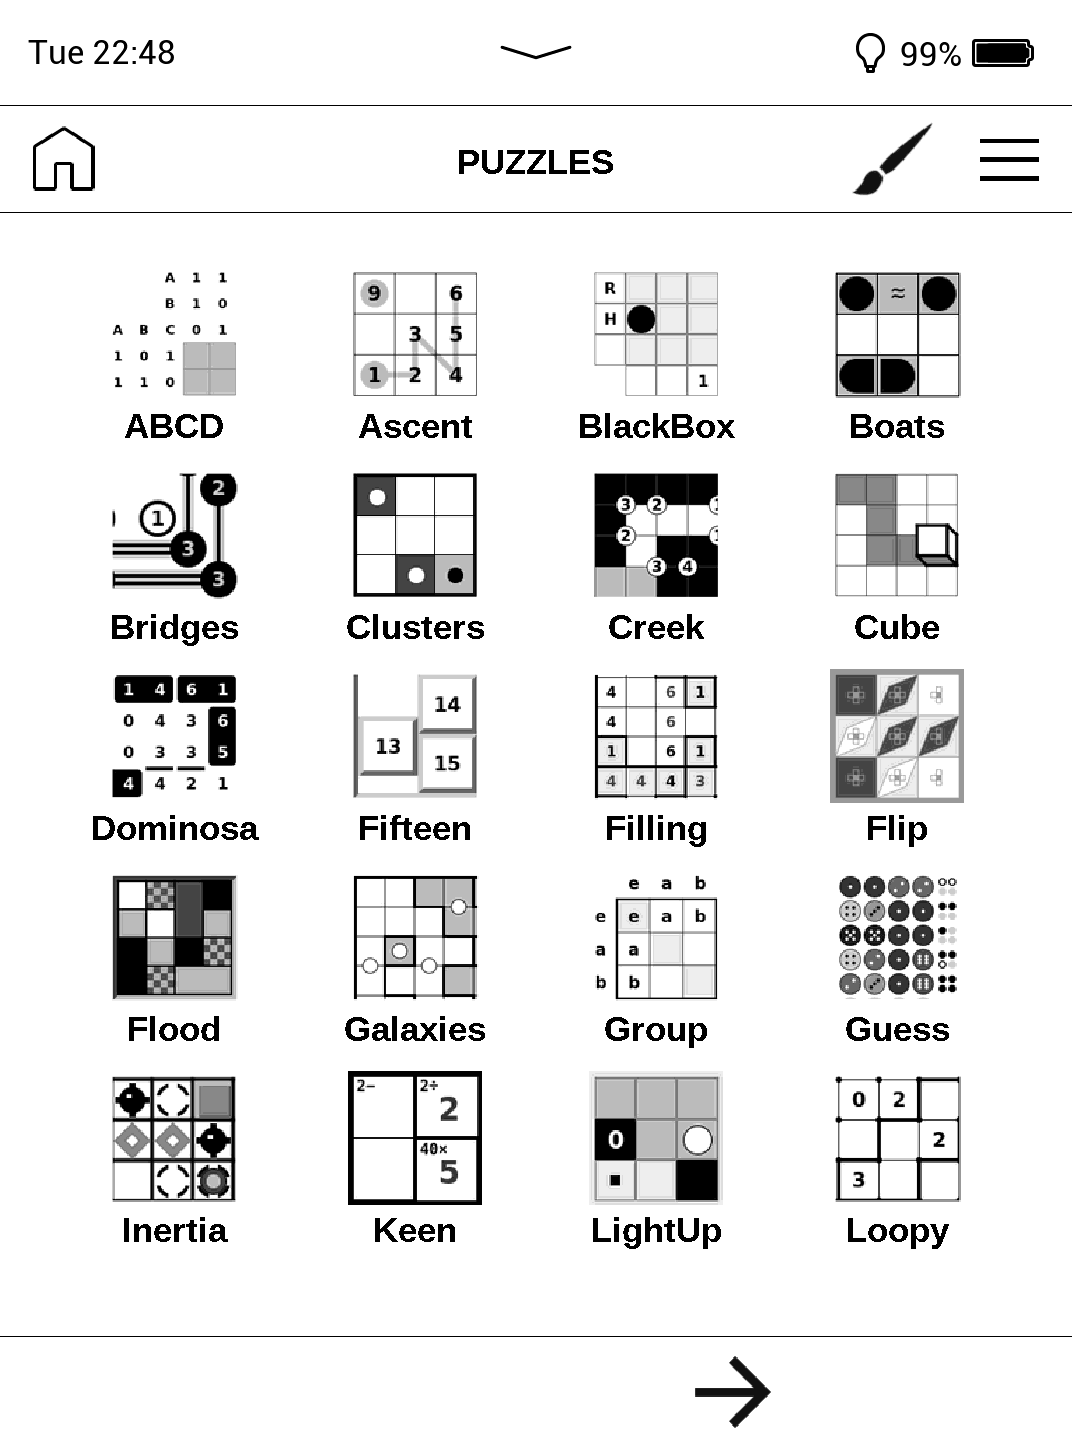
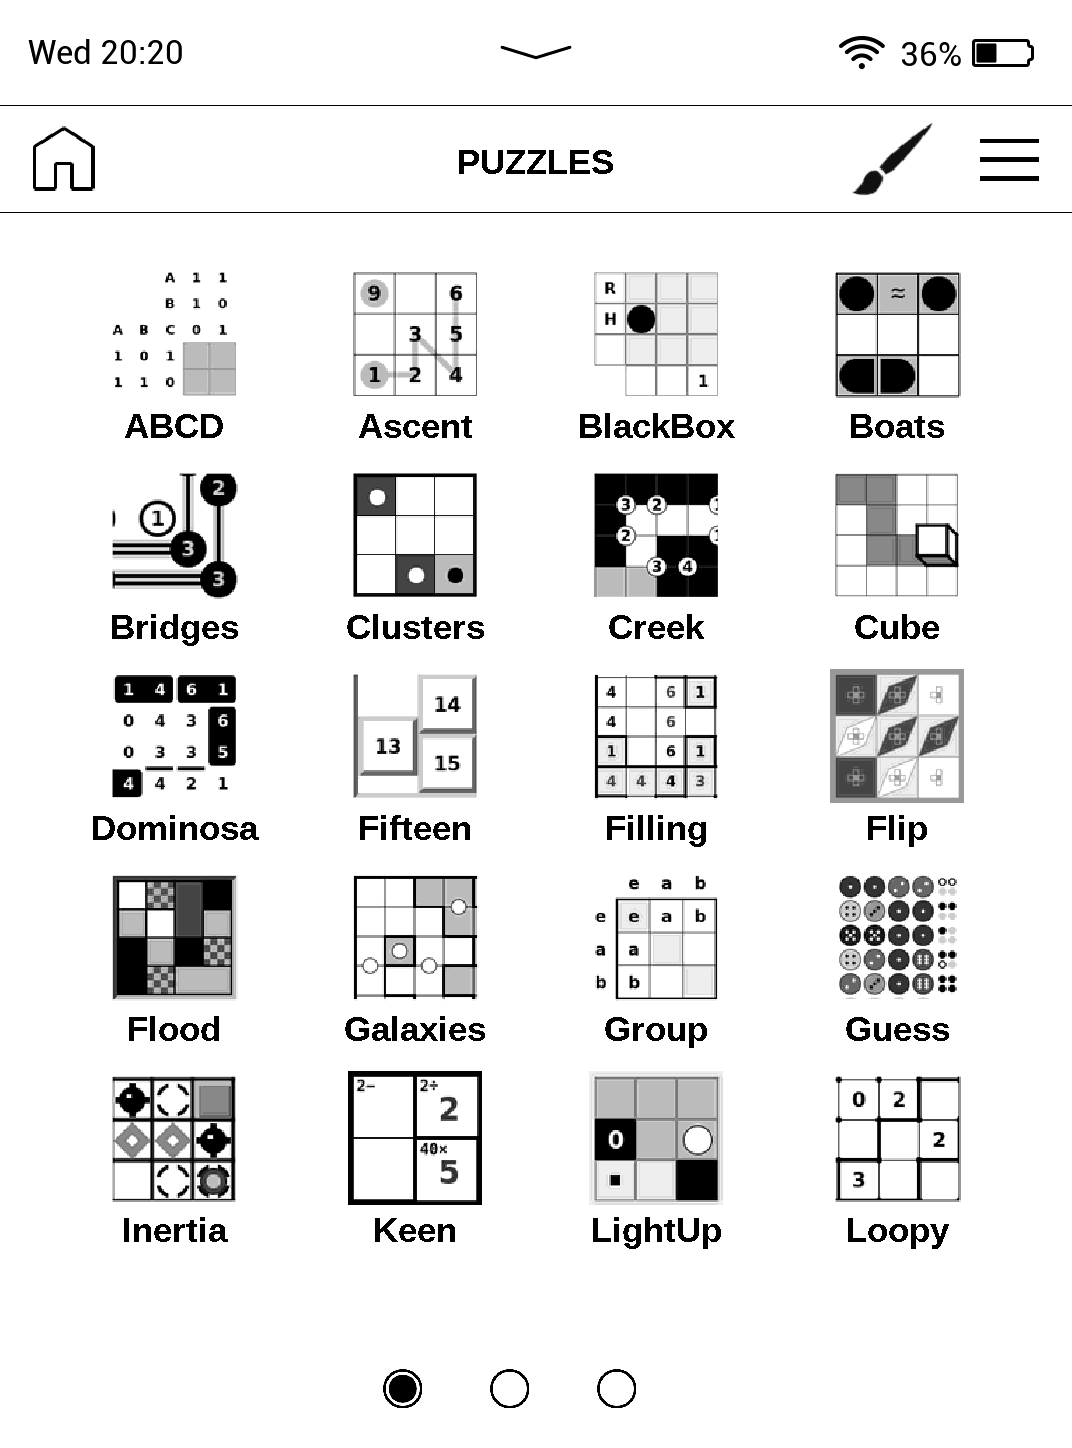
Add swiping in chooser to change pages

diff --git a/frontend/chooser.c b/frontend/chooser.c
@@ -48,7 +48,12 @@ void chooserTap(int x, int y) {
     int i;
     for (i=0;i<ca.numChooserButtons;i++) {
         if (coord_in_button(x, y, &ca.chooserButton[i]))
-            button_to_tapped(&ca.chooserButton[i]);
+            button_to_tapped(&ca.chooserButton[i], true);
+    }
+    for (i=0;i<ca.numPageButtons;i++) {
+        if (coord_in_button(x, y, &ca.pageButton[i])) {
+            button_to_tapped(&ca.pageButton[i], true);
+        }
     }
 }
 
@@ -75,9 +80,24 @@ void chooserDrag(int x, int y) { }
 
 void chooserRelease(int x, int y) {
     int i;
-    for (i=0;i<ca.numChooserButtons;i++) {
-        if (coord_in_button(init_tap_x, init_tap_y, &ca.chooserButton[i])) {
-            button_to_normal(&ca.chooserButton[i], true);
+
+    if (init_tap_y > ca.chooserlayout.maincanvas.starty) {
+        if      (((init_tap_x - x) > ScreenWidth()/10) && 
+                 (ca.current_chooserpage < ca.chooser_lastpage)) {
+            chooserNext();
+            return;
+        }
+        else if (((x - init_tap_x) > ScreenWidth()/10) && 
+                 (ca.current_chooserpage > 0)) {
+            chooserPrev();
+            return;
+        }
+    }
+    if (init_tap_y < ca.chooserlayout.buttonpanel.starty) {
+        for (i=0;i<ca.numChooserButtons;i++) {
+            if (coord_in_button(init_tap_x, init_tap_y, &ca.chooserButton[i]))
+                button_to_normal(&ca.chooserButton[i], true);
+
             if (release_button(x, y, &ca.chooserButton[i])) {
                 switch(ca.chooserButton[i].action) {
                     case ACTION_HOME:
@@ -91,18 +111,21 @@ void chooserRelease(int x, int y) {
                             ScreenWidth()-10-ca.chooserlayout.menubtn_size ,
                             ca.chooserlayout.menubtn_size +2, chooserMenuHandler);
                         break;
-                    case ACTION_PREV:
-                        chooserPrev();
-                        break;
-                    case ACTION_NEXT:
-                        chooserNext();
-                        break;
                     case ACTION_LAUNCH:
                         gameSetGame(ca.chooserButton[i].actionParm.thegame);
                         gameStartNewGame();
                         switchToGameScreen();
                         break;
                 }
+            }
+        }
+        return;
+    }
+    else if (init_tap_y > ca.chooserlayout.buttonpanel.starty) {
+        for (i=0;i<ca.numPageButtons;i++) {
+            if (release_button(x, y, &ca.pageButton[i])) {
+                chooserSwitch(ca.pageButton[i].page);
+                break;
             }
         }
     }
@@ -116,8 +139,15 @@ void chooserPrev() {
 }
 
 void chooserNext() {
-    if (ca.current_chooserpage <= ca.chooser_lastpage) {
+    if (ca.current_chooserpage < ca.chooser_lastpage) {
         ca.current_chooserpage += 1;
+        chooserRefreshCanvas();
+    }
+}
+
+void chooserSwitch(int page) {
+    if ((page >= 0) && (page <= ca.chooser_lastpage)) {
+        ca.current_chooserpage = page;
         chooserRefreshCanvas();
     }
 }
@@ -142,24 +172,14 @@ static void chooserDrawChooserButtons(int page) {
 }
 
 static void chooserDrawControlButtons(int page) {
+    int i;
     FillArea(0, ca.chooserlayout.buttonpanel.starty, ScreenWidth(), ca.chooserlayout.buttonpanel.height, 0x00FFFFFF);
-    FillArea(0, ca.chooserlayout.buttonpanel.starty, ScreenWidth(), 1, 0x00000000);
 
-    if (page == 0) {
-        ca.chooserButton[ca.btnPrevIDX].active = false;
-        button_to_cleared(&ca.chooserButton[ca.btnPrevIDX], false);
-    }
-    else {
-        ca.chooserButton[ca.btnPrevIDX].active = true;
-        button_to_normal(&ca.chooserButton[ca.btnPrevIDX], false);
-    }
-    if (page == ca.chooser_lastpage) {
-        ca.chooserButton[ca.btnNextIDX].active = false;
-        button_to_cleared(&ca.chooserButton[ca.btnNextIDX], false);
-    }
-    else {
-        ca.chooserButton[ca.btnNextIDX].active = true;
-        button_to_normal(&ca.chooserButton[ca.btnNextIDX], false);
+    for (i=0;i<ca.numPageButtons;i++) {
+        if (page == ca.pageButton[i].page)
+            button_to_tapped(&ca.pageButton[i], false);
+        else
+            button_to_normal(&ca.pageButton[i], false);
     }
 }
 
@@ -209,6 +229,17 @@ static void chooserSetupButtons() {
         }
     }
 
+    for (n=0;n<ca.numPageButtons;n++) {
+        int pos = ScreenWidth()/2 - 
+                  (ca.chooserlayout.control_size*ca.numPageButtons)/2 + 
+                  n*ca.chooserlayout.control_size;
+        ca.pageButton[n] = (BUTTON){
+            true, BTN_CTRL, 
+            pos, ca.chooserlayout.buttonpanel.starty +ca.chooserlayout.control_size/4, 
+            ca.chooserlayout.control_size/2, n, 
+            ACTION_SWITCH, 0x00, &bt_page, &bt_page_select, NULL};
+    }
+
     ca.chooserButton[ca.btnHomeIDX = i++] = (BUTTON){ true,  BTN_MENU, 
         10, ca.chooserlayout.menu.starty, 
         ca.chooserlayout.menubtn_size, 0, 
@@ -223,16 +254,6 @@ static void chooserSetupButtons() {
         ScreenWidth() - 1*ca.chooserlayout.menubtn_size - 10, ca.chooserlayout.menu.starty, 
         ca.chooserlayout.menubtn_size, 0,
         ACTION_MENU, ' ', &icon_menu, &icon_menu_tap, NULL};
-
-    ca.chooserButton[ca.btnPrevIDX = i++] = (BUTTON){ false, BTN_CTRL, 
-        ca.control_padding, ca.chooserlayout.buttonpanel.starty + 2, 
-        ca.chooserlayout.control_size, 0, 
-        ACTION_PREV, ' ', &bt_west, NULL, NULL};
-
-    ca.chooserButton[ca.btnNextIDX = i++] = (BUTTON){ false, BTN_CTRL, 
-        2*ca.control_padding + ca.chooserlayout.control_size, 
-        ca.chooserlayout.buttonpanel.starty + 2, ca.chooserlayout.control_size, 0, 
-        ACTION_NEXT, ' ', &bt_east, NULL, NULL};
 }
 
 void chooserRefreshCanvas() {
@@ -274,6 +295,9 @@ void chooserScreenInit() {
     ca.numChooserButtons = ca.num_games + 5;
     ca.chooserButton = smalloc(ca.numChooserButtons*sizeof(BUTTON));
 
+    ca.numPageButtons = ca.chooser_lastpage + 1;
+    ca.pageButton = smalloc(ca.numPageButtons*sizeof(BUTTON));
+
     chooserSetupButtons();
     chooserInitialized = true;
 }
@@ -286,6 +310,7 @@ void chooserScreenFree() {
     if (chooserInitialized) {
         CloseFont(ca.chooserfont);
         sfree(ca.chooserButton);
+        sfree(ca.pageButton);
         chooserInitialized = false;
     }
 }

diff --git a/frontend/game.c b/frontend/game.c
@@ -360,12 +360,12 @@ static void gameCheckButtonState() {
     if (!midend_can_redo(me) && redo->active) deactivate_button(redo);
     if (fe->with_rightpointer) {
         swap = &fe->gameButton[fe->btnSwapIDX];
-        fe->swapped ? button_to_tapped(swap) : button_to_normal(swap, false);
+        fe->swapped ? button_to_tapped(swap, false) : button_to_normal(swap, false);
     }
     for (i=0;i<fe->numGameButtons;i++) {
         if (fe->gameButton[i].action == ACTION_CTRL)
             if (midend_is_key_highlighted(me, fe->gameButton[i].actionParm.c))
-                button_to_tapped(&fe->gameButton[i]);
+                button_to_tapped(&fe->gameButton[i], false);
             else
                 button_to_normal(&fe->gameButton[i], false);
     }
@@ -388,9 +388,15 @@ void gameTap(int x, int y) {
             if (fe->gameButton[i].type == BTN_CHAR)
                 is_active = midend_is_key_highlighted(me, fe->gameButton[i].actionParm.c);
             if (is_active) button_to_normal(&fe->gameButton[i], true);
-            else           button_to_tapped(&fe->gameButton[i]);
+            else           button_to_tapped(&fe->gameButton[i], true);
+        }
+        if ((fe->gameButton[i].action == ACTION_SWAP) &&
+            coord_in_button(x, y, &fe->gameButton[i])) {
+            if (fe->swapped) button_to_normal(&fe->gameButton[i], true);
+            else             button_to_tapped(&fe->gameButton[i], true);
         }
     }
+
 
     if (coord_in_gamecanvas(x, y) && (fe->current_pointer == 0)) {
         fe->pointerdown_x = x;

diff --git a/frontend/param.c b/frontend/param.c
@@ -40,15 +40,15 @@ void paramTap(int x, int y) {
 
     for (i=0;i<pa.numParamButtons;i++) {
         if (coord_in_button(x, y, &pa.paramButton[i]))
-            button_to_tapped(&pa.paramButton[i]);
+            button_to_tapped(&pa.paramButton[i], false);
     }
     for (i=0;i<pa.numParams;i++) {
         switch(pa.paramItem[i].type) {
             case C_STRING:
                 if (coord_in_button(x, y, &pa.paramItem[i].item.n.decrease))
-                    button_to_tapped(&pa.paramItem[i].item.n.decrease);
+                    button_to_tapped(&pa.paramItem[i].item.n.decrease, false);
                 if (coord_in_button(x, y, &pa.paramItem[i].item.n.increase))
-                    button_to_tapped(&pa.paramItem[i].item.n.increase);
+                    button_to_tapped(&pa.paramItem[i].item.n.increase, false);
                 break;
             case C_CHOICES:
                 if (coord_in_choice(x, y, i))
@@ -56,7 +56,7 @@ void paramTap(int x, int y) {
                 break;
             case C_BOOLEAN:
                 if (coord_in_button(x, y, &pa.paramItem[i].item.b.indicator))
-                    button_to_tapped(&pa.paramItem[i].item.b.indicator);
+                    button_to_tapped(&pa.paramItem[i].item.b.indicator, false);
                 break;
         }
     }

diff --git a/include/frontend/chooser.h b/include/frontend/chooser.h
@@ -19,6 +19,9 @@ struct chooserAttributes {
     int numChooserButtons;
     BUTTON *chooserButton;
 
+    int numPageButtons;
+    BUTTON *pageButton;
+
     int control_padding;
     int chooser_padding;
 
@@ -28,12 +31,10 @@ struct chooserAttributes {
     int btnHomeIDX;
     int btnDrawIDX;
     int btnMenuIDX;
-    int btnPrevIDX;
-    int btnNextIDX;
 } ca;
 
 extern ibitmap icon_home, icon_home_tap, icon_redraw, icon_redraw_tap,
-               bt_west, bt_east, ic_star,
+               bt_west, bt_east, ic_star, bt_page, bt_page_select,
                icon_menu, icon_menu_tap,
                menu_new, menu_star,
                menu_settings, menu_restart, menu_help, menu_reset;
@@ -64,6 +65,7 @@ void chooserDrag(int x, int y);
 void chooserRelease(int x, int y);
 void chooserPrev();
 void chooserNext();
+void chooserSwitch(int page);
 void chooserSerialise();
 
 extern void gameSetGame(const struct game *thegame);

diff --git a/games/tracks.c b/games/tracks.c
@@ -2217,15 +2217,16 @@ static game_state *execute_move(const game_state *state, const char *move)
             f = (c == 'T' || c == 't') ? S_TRACK : S_NOTRACK;
 
             if (d == 'S') {
+                for (i=0;i<4;i++) S_E_CLEAR(ret, x, y, 1<<i, S_NOTRACK);
                 if (c == 'T' || c == 'N')
                     ret->sflags[y*w+x] |= f;
-                else
+                else 
                     ret->sflags[y*w+x] &= ~f;
             } else if (d == 'U' || d == 'D' || d == 'L' || d == 'R') {
                 for (i = 0; i < 4; i++) {
                     unsigned df = 1<<i;
 
-                    if (MOVECHAR(df) == d){ /*  && f != S_NOTRACK) { */
+                    if (MOVECHAR(df) == d) {
                         if (c == 'T' || c == 'N')
                             S_E_SET(ret, x, y, df, f);
                         else

diff --git a/frontend/common.c b/frontend/common.c
@@ -26,7 +26,7 @@ void button_to_normal(BUTTON *button, bool update) {
     }
     if (update) PartialUpdate(button->posx, button->posy, button->size, button->size);
 }
-void button_to_tapped(BUTTON *button) {
+void button_to_tapped(BUTTON *button, bool update) {
     if (button->bitmap_tap != NULL) {
         StretchBitmap(button->posx, button->posy, button->size, button->size, button->bitmap_tap, 0);
     }
@@ -39,7 +39,7 @@ void button_to_tapped(BUTTON *button) {
         draw_buttonchar(button);
         InvertArea(button->posx, button->posy, button->size, button->size);
     }
-    PartialUpdate(button->posx, button->posy, button->size, button->size);
+    if (update) PartialUpdate(button->posx, button->posy, button->size, button->size);
 }
 static void draw_buttonchar(BUTTON *button) {
     ifont *font; char buf[2];

diff --git a/include/frontend/common.h b/include/frontend/common.h
@@ -49,6 +49,7 @@ typedef enum {
     ACTION_MENU,
     ACTION_NEXT,
     ACTION_PREV,
+    ACTION_SWITCH,
     ACTION_LAUNCH,
     ACTION_BACK,
     ACTION_GAME,
@@ -82,7 +83,7 @@ typedef struct gameinfo {
 bool coord_in_button(int x, int y, BUTTON *button);
 bool release_button(int x, int y, BUTTON *button);
 void button_to_normal(BUTTON *button, bool update);
-void button_to_tapped(BUTTON *button);
+void button_to_tapped(BUTTON *button, bool update);
 void button_to_cleared(BUTTON *button, bool update);
 void activate_button(BUTTON *button);
 void deactivate_button(BUTTON *button);
